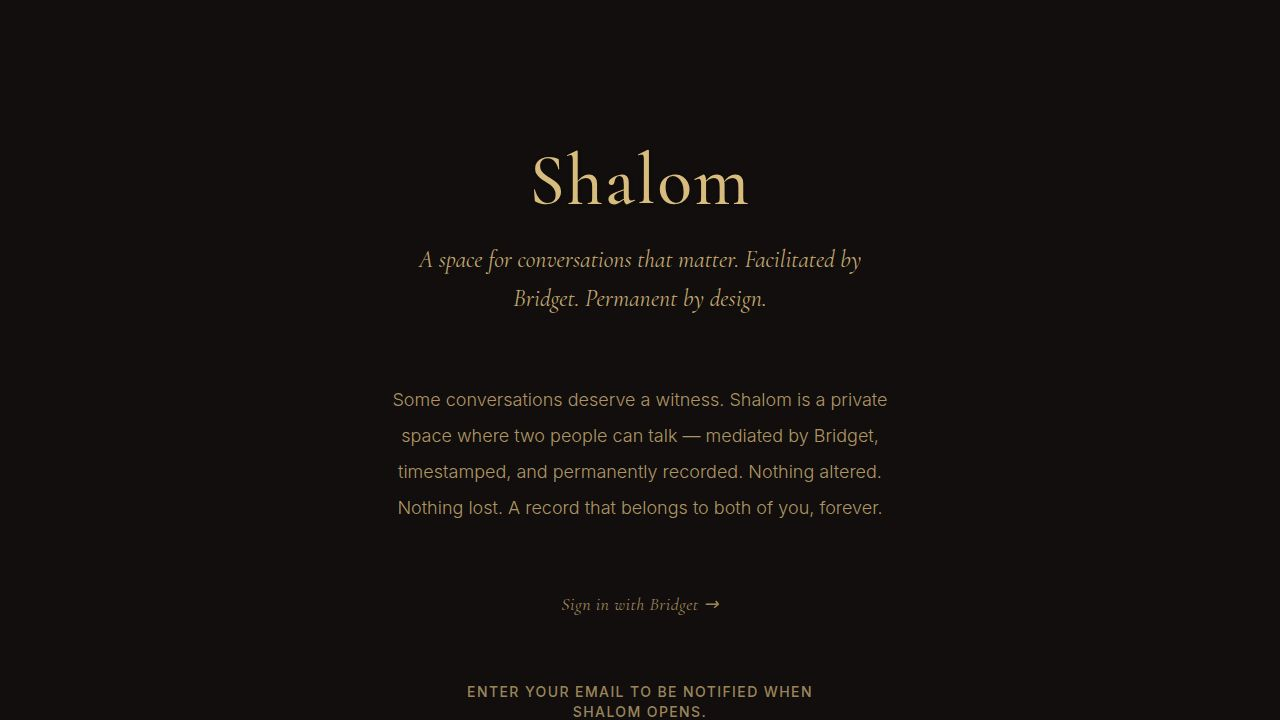
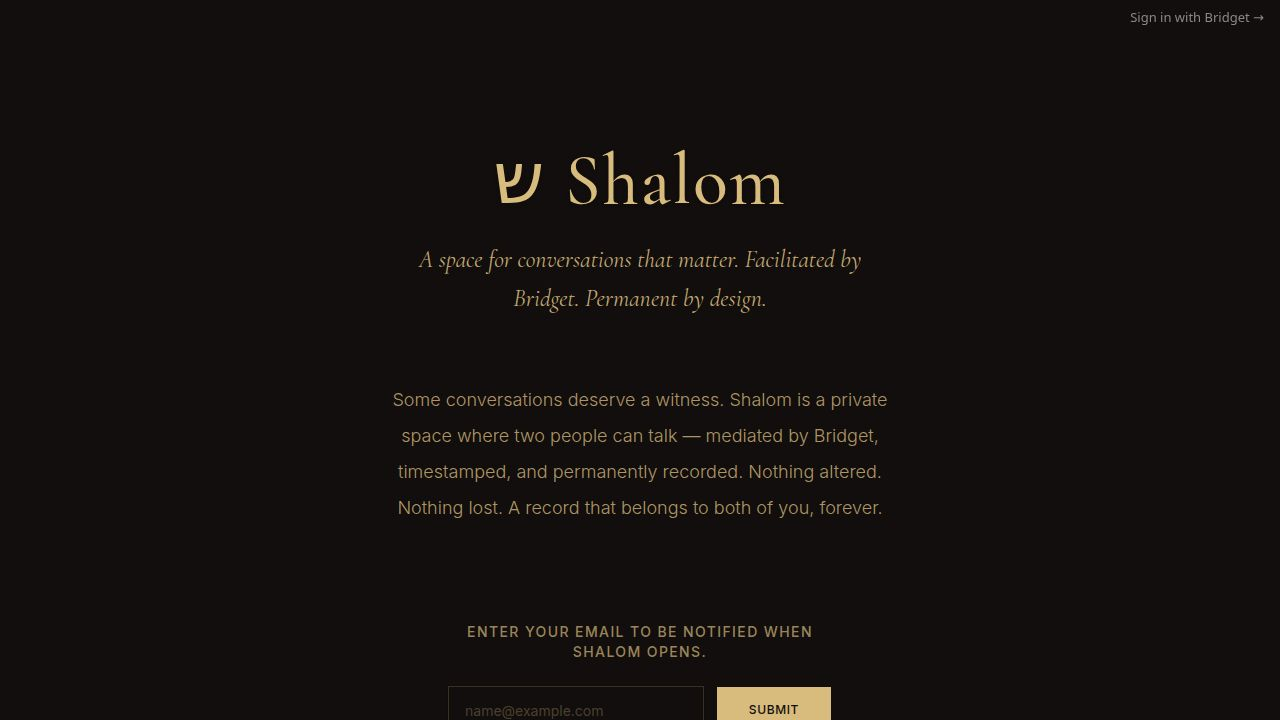
Update sign-in button to use Bridget SSO for authentication
Update the sign-in link in the header to redirect users to Bridget's SSO for authentication, and update the opengraph image.

Replit-Commit-Author: Agent
Replit-Commit-Session-Id: 616d34df-7aed-43a3-a27d-8f0e91953b37
Replit-Commit-Checkpoint-Type: full_checkpoint
Replit-Commit-Event-Id: e087fb5f-c57c-4a93-9548-72a1b6719ac2
Replit-Commit-Screenshot-Url: https://storage.googleapis.com/screenshot-production-us-central1/4c5df8fd-eea4-468c-9017-6652b96c1d68/616d34df-7aed-43a3-a27d-8f0e91953b37/dS2L1nf
Replit-Helium-Checkpoint-Created: true

diff --git a/artifacts/shalom/dist/public/index.html b/artifacts/shalom/dist/public/index.html
@@ -33,10 +33,10 @@
             const data = await res.json();
             bar.textContent = data.email ?? '';
           } else {
-            bar.innerHTML = '<a href="https://bridget.fyi" style="color:#888;text-decoration:none;">Sign in</a>';
+            bar.innerHTML = '<a href="https://bridget.fyi/auth/sso/init?return_to=' + encodeURIComponent('https://shalom.fyi/auth/sso/callback') + '" style="color:#888;text-decoration:none;">Sign in with Bridget \u2192</a>';
           }
         } catch {
-          bar.innerHTML = '<a href="https://bridget.fyi" style="color:#888;text-decoration:none;">Sign in</a>';
+          bar.innerHTML = '<a href="https://bridget.fyi/auth/sso/init?return_to=' + encodeURIComponent('https://shalom.fyi/auth/sso/callback') + '" style="color:#888;text-decoration:none;">Sign in with Bridget \u2192</a>';
         }
       })();
     </script>
